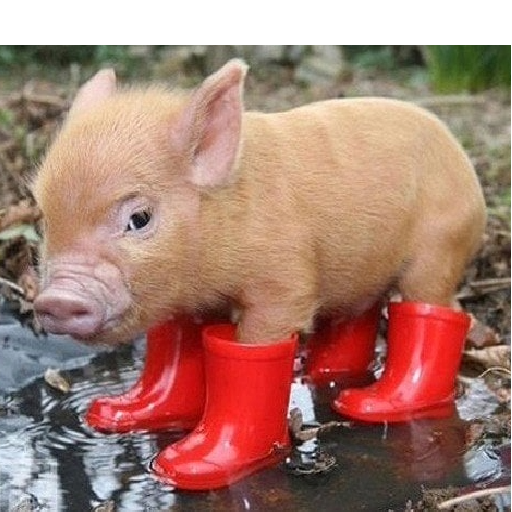
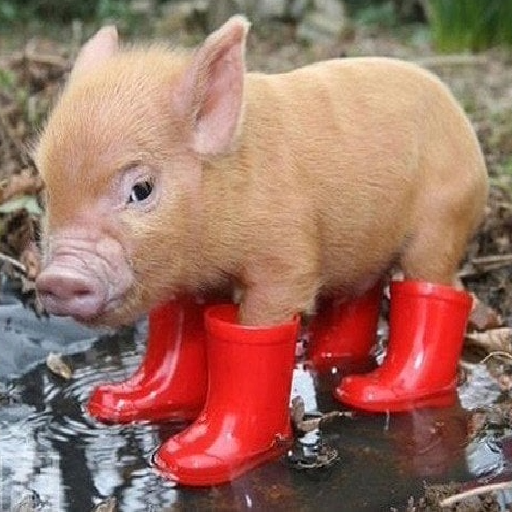
pwa image changed

diff --git a/service-worker.js b/service-worker.js
@@ -1,4 +1,4 @@
-const CACHE_NAME = 'family-rhythm-v1';
+const CACHE_NAME = 'family-rhythm-v2';
 const ASSETS_TO_CACHE = [
     './',
     './index.html',
